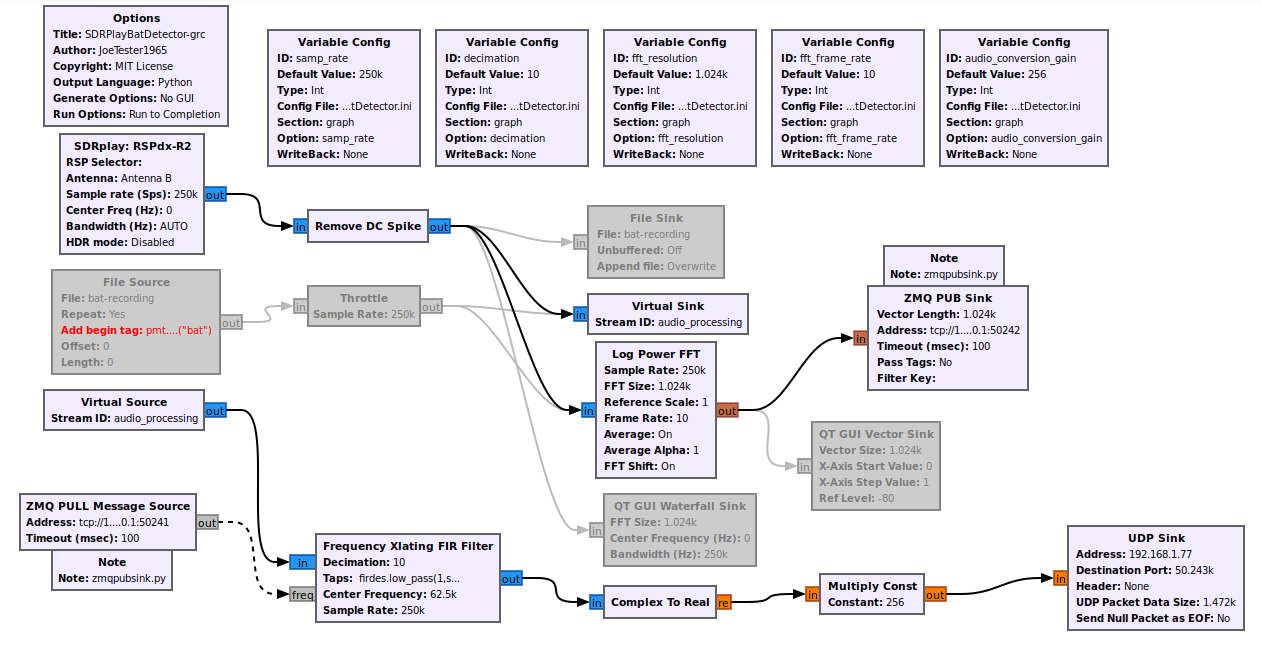
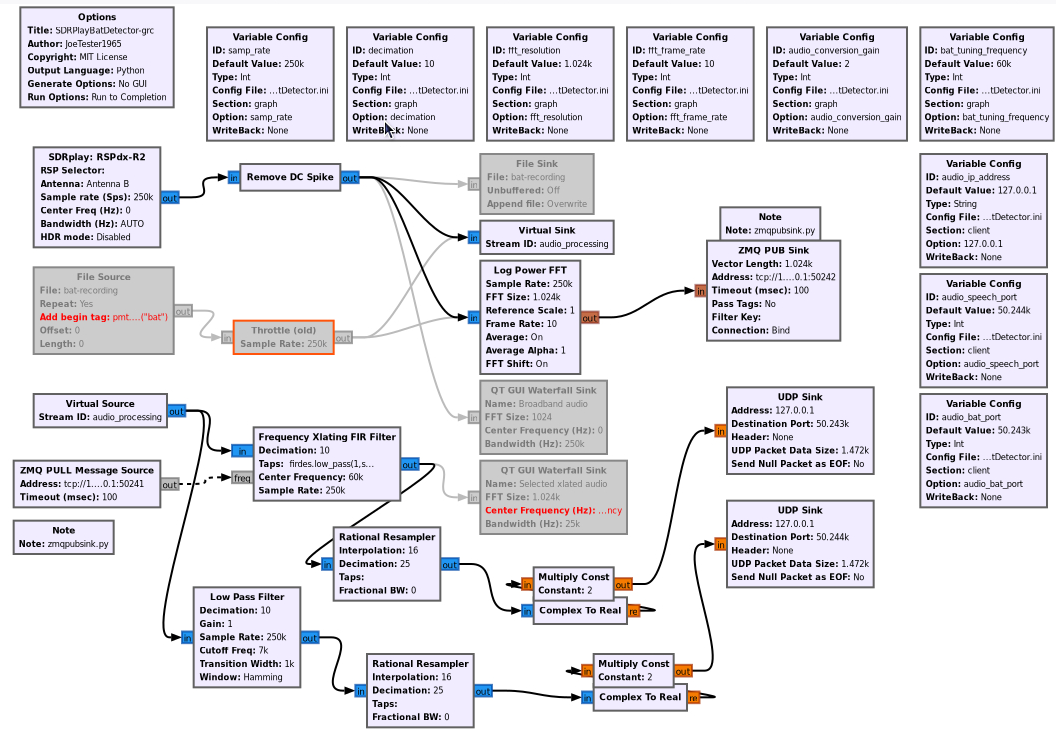
Added speech and bat audio streams

diff --git a/SDRPlayBatDetector.py b/SDRPlayBatDetector.py
@@ -39,7 +39,6 @@ class SDRPlayBatDetector(gr.top_block):
         ##################################################
         # Variables
         ##################################################
-        self.tuning_frequency = tuning_frequency = 0
         self._samp_rate_config = configparser.ConfigParser()
         self._samp_rate_config.read('./SDRPlayBatDetector.ini')
         try: samp_rate = self._samp_rate_config.getint('graph', 'samp_rate')
@@ -60,11 +59,31 @@ class SDRPlayBatDetector(gr.top_block):
         try: decimation = self._decimation_config.getint('graph', 'decimation')
         except: decimation = 10
         self.decimation = decimation
+        self._bat_tuning_frequency_config = configparser.ConfigParser()
+        self._bat_tuning_frequency_config.read('./SDRPlayBatDetector.ini')
+        try: bat_tuning_frequency = self._bat_tuning_frequency_config.getint('graph', 'bat_tuning_frequency')
+        except: bat_tuning_frequency = 60000
+        self.bat_tuning_frequency = bat_tuning_frequency
+        self._audio_speech_port_config = configparser.ConfigParser()
+        self._audio_speech_port_config.read('./SDRPlayBatDetector.ini')
+        try: audio_speech_port = self._audio_speech_port_config.getint('client', 'audio_speech_port')
+        except: audio_speech_port = 50244
+        self.audio_speech_port = audio_speech_port
+        self._audio_ip_address_config = configparser.ConfigParser()
+        self._audio_ip_address_config.read('./SDRPlayBatDetector.ini')
+        try: audio_ip_address = self._audio_ip_address_config.get('client', audio_ip_address)
+        except: audio_ip_address = '127.0.0.1'
+        self.audio_ip_address = audio_ip_address
         self._audio_conversion_gain_config = configparser.ConfigParser()
         self._audio_conversion_gain_config.read('./SDRPlayBatDetector.ini')
         try: audio_conversion_gain = self._audio_conversion_gain_config.getint('graph', 'audio_conversion_gain')
         except: audio_conversion_gain = 2
         self.audio_conversion_gain = audio_conversion_gain
+        self._audio_bat_port_config = configparser.ConfigParser()
+        self._audio_bat_port_config.read('./SDRPlayBatDetector.ini')
+        try: audio_bat_port = self._audio_bat_port_config.getint('client', 'audio_bat_port')
+        except: audio_bat_port = 50243
+        self.audio_bat_port = audio_bat_port
 
         ##################################################
         # Blocks
@@ -84,7 +103,7 @@ class SDRPlayBatDetector(gr.top_block):
         self.sdrplay3_rspdxr2_0.set_bandwidth(0)
         self.sdrplay3_rspdxr2_0.set_antenna('Antenna B')
         self.sdrplay3_rspdxr2_0.set_gain_mode(False)
-        self.sdrplay3_rspdxr2_0.set_gain(-(30), 'IF', False)
+        self.sdrplay3_rspdxr2_0.set_gain(-(36), 'IF', False)
         self.sdrplay3_rspdxr2_0.set_gain(0, 'LNAstate', False)
         self.sdrplay3_rspdxr2_0.set_freq_corr(0)
         self.sdrplay3_rspdxr2_0.set_dc_offset_mode(True)
@@ -98,7 +117,27 @@ class SDRPlayBatDetector(gr.top_block):
         self.sdrplay3_rspdxr2_0.set_debug_mode(False)
         self.sdrplay3_rspdxr2_0.set_sample_sequence_gaps_check(False)
         self.sdrplay3_rspdxr2_0.set_show_gain_changes(False)
-        self.network_udp_sink_0 = network.udp_sink(gr.sizeof_float, 1, '127.0.0.1', 50243, 0, 1472, False)
+        self.rational_resampler_xxx_0_0 = filter.rational_resampler_ccc(
+                interpolation=16,
+                decimation=25,
+                taps=[],
+                fractional_bw=0)
+        self.rational_resampler_xxx_0 = filter.rational_resampler_ccc(
+                interpolation=16,
+                decimation=25,
+                taps=[],
+                fractional_bw=0)
+        self.network_udp_sink_0_0 = network.udp_sink(gr.sizeof_float, 1, audio_ip_address, audio_speech_port, 0, 1472, False)
+        self.network_udp_sink_0 = network.udp_sink(gr.sizeof_float, 1, audio_ip_address, 50243, 0, 1472, False)
+        self.low_pass_filter_0 = filter.fir_filter_ccf(
+            10,
+            firdes.low_pass(
+                1,
+                samp_rate,
+                7000,
+                1000,
+                window.WIN_HAMMING,
+                6.76))
         self.logpwrfft_x_0 = logpwrfft.logpwrfft_c(
             sample_rate=samp_rate,
             fft_size=fft_resolution,
@@ -108,9 +147,11 @@ class SDRPlayBatDetector(gr.top_block):
             average=True,
             shift=True)
         self.logpwrfft_x_0.set_block_alias("audio")
-        self.freq_xlating_fir_filter_xxx_0 = filter.freq_xlating_fir_filter_ccc(decimation,  firdes.low_pass(1,samp_rate,samp_rate/decimation/3,100), tuning_frequency, samp_rate)
+        self.freq_xlating_fir_filter_xxx_0 = filter.freq_xlating_fir_filter_ccc(decimation,  firdes.low_pass(1,samp_rate,samp_rate/decimation/3,100), bat_tuning_frequency, samp_rate)
+        self.blocks_multiply_const_vxx_0_0 = blocks.multiply_const_ff(audio_conversion_gain)
         self.blocks_multiply_const_vxx_0 = blocks.multiply_const_ff(audio_conversion_gain)
         self.blocks_correctiq_0 = blocks.correctiq()
+        self.blocks_complex_to_real_0_0 = blocks.complex_to_real(1)
         self.blocks_complex_to_real_0 = blocks.complex_to_real(1)
 
 
@@ -119,20 +160,19 @@ class SDRPlayBatDetector(gr.top_block):
         ##################################################
         self.msg_connect((self.zeromq_pull_msg_source_0, 'out'), (self.freq_xlating_fir_filter_xxx_0, 'freq'))
         self.connect((self.blocks_complex_to_real_0, 0), (self.blocks_multiply_const_vxx_0, 0))
+        self.connect((self.blocks_complex_to_real_0_0, 0), (self.blocks_multiply_const_vxx_0_0, 0))
         self.connect((self.blocks_correctiq_0, 0), (self.freq_xlating_fir_filter_xxx_0, 0))
         self.connect((self.blocks_correctiq_0, 0), (self.logpwrfft_x_0, 0))
+        self.connect((self.blocks_correctiq_0, 0), (self.low_pass_filter_0, 0))
         self.connect((self.blocks_multiply_const_vxx_0, 0), (self.network_udp_sink_0, 0))
-        self.connect((self.freq_xlating_fir_filter_xxx_0, 0), (self.blocks_complex_to_real_0, 0))
+        self.connect((self.blocks_multiply_const_vxx_0_0, 0), (self.network_udp_sink_0_0, 0))
+        self.connect((self.freq_xlating_fir_filter_xxx_0, 0), (self.rational_resampler_xxx_0_0, 0))
         self.connect((self.logpwrfft_x_0, 0), (self.zeromq_pub_sink_0, 0))
+        self.connect((self.low_pass_filter_0, 0), (self.rational_resampler_xxx_0, 0))
+        self.connect((self.rational_resampler_xxx_0, 0), (self.blocks_complex_to_real_0_0, 0))
+        self.connect((self.rational_resampler_xxx_0_0, 0), (self.blocks_complex_to_real_0, 0))
         self.connect((self.sdrplay3_rspdxr2_0, 0), (self.blocks_correctiq_0, 0))
 
-
-    def get_tuning_frequency(self):
-        return self.tuning_frequency
-
-    def set_tuning_frequency(self, tuning_frequency):
-        self.tuning_frequency = tuning_frequency
-        self.freq_xlating_fir_filter_xxx_0.set_center_freq(self.tuning_frequency)
 
     def get_samp_rate(self):
         return self.samp_rate
@@ -141,6 +181,7 @@ class SDRPlayBatDetector(gr.top_block):
         self.samp_rate = samp_rate
         self.freq_xlating_fir_filter_xxx_0.set_taps( firdes.low_pass(1,self.samp_rate,self.samp_rate/self.decimation/3,100))
         self.logpwrfft_x_0.set_sample_rate(self.samp_rate)
+        self.low_pass_filter_0.set_taps(firdes.low_pass(1, self.samp_rate, 7000, 1000, window.WIN_HAMMING, 6.76))
         self.sdrplay3_rspdxr2_0.set_sample_rate(self.samp_rate, False)
 
     def get_fft_resolution(self):
@@ -162,12 +203,44 @@ class SDRPlayBatDetector(gr.top_block):
         self.decimation = decimation
         self.freq_xlating_fir_filter_xxx_0.set_taps( firdes.low_pass(1,self.samp_rate,self.samp_rate/self.decimation/3,100))
 
+    def get_bat_tuning_frequency(self):
+        return self.bat_tuning_frequency
+
+    def set_bat_tuning_frequency(self, bat_tuning_frequency):
+        self.bat_tuning_frequency = bat_tuning_frequency
+        self.freq_xlating_fir_filter_xxx_0.set_center_freq(self.bat_tuning_frequency)
+
+    def get_audio_speech_port(self):
+        return self.audio_speech_port
+
+    def set_audio_speech_port(self, audio_speech_port):
+        self.audio_speech_port = audio_speech_port
+
+    def get_audio_ip_address(self):
+        return self.audio_ip_address
+
+    def set_audio_ip_address(self, audio_ip_address):
+        self.audio_ip_address = audio_ip_address
+        self._audio_ip_address_config = configparser.ConfigParser()
+        self._audio_ip_address_config.read('./SDRPlayBatDetector.ini')
+        if not self._audio_ip_address_config.has_section('client'):
+        	self._audio_ip_address_config.add_section('client')
+        self._audio_ip_address_config.set('client', self.audio_ip_address, str(None))
+        self._audio_ip_address_config.write(open('./SDRPlayBatDetector.ini', 'w'))
+
     def get_audio_conversion_gain(self):
         return self.audio_conversion_gain
 
     def set_audio_conversion_gain(self, audio_conversion_gain):
         self.audio_conversion_gain = audio_conversion_gain
         self.blocks_multiply_const_vxx_0.set_k(self.audio_conversion_gain)
+        self.blocks_multiply_const_vxx_0_0.set_k(self.audio_conversion_gain)
+
+    def get_audio_bat_port(self):
+        return self.audio_bat_port
+
+    def set_audio_bat_port(self, audio_bat_port):
+        self.audio_bat_port = audio_bat_port
 
 
 

diff --git a/zmqpubsink.py b/zmqpubsink.py
@@ -123,8 +123,7 @@ while True:
         if bin_count >= bin_count_threshold:
             if  (time.time() - last_trigger_time[index]) > retrigger_seconds:
                 last_trigger_time[index] = time.time()
-                zmq_push_message_sink.send(pmt.serialize_str((pmt.cons(pmt.intern("tuning_frequency"), pmt.to_pmt(float(tuning_frequency))))))
-                now = datetime.datetime.now()
+                 now = datetime.datetime.now()
                 csv_entry="%s,%s,%0.0f,%d,%0.0f,%d,%d\n" % (now.strftime("%Y-%m-%d %H:%M:%S"),time.time(),
                                                             start_event_frequency, start_event_power, end_event_frequency, end_event_power, bin_count)
                 csv_file.write(csv_entry)

diff --git a/README.md b/README.md
@@ -45,12 +45,16 @@ Edit the [config file](SDRPlayBatDetector.ini) to adjust the following
 | fft_resolution | Ditto. |
 | fft_frame_rate  | Ditto. |
 | audio_conversion_gain  | Ditto. |
+| bat_tuning_frequency | Where to losten for bat sounds
 | start_freq  | Where to start looking for bats. |
 | end_freq  | If you need to increase this, you will need to increase the sample rate and then maybe tweak the decimation and interpolation values on the graph. |
 | freq_bin_range  | The fft is re-aggregrated based on this size to allow for more detailed but not over the top event generation. |
 | trigger_gain_threshold  | Spike in received power required to generate an event. |
 | trigger_abs_threshold  | So not use event if power is less than this |
 | retrigger_seconds | Do not generate more than one event in this 'comparison against rolling average' interval. |
+| audio_ip_address | IP address to send audio streams |
+| audio_speech_port | Port to send speech audio stream|
+| audio_bat_port | Port to send bat audio stream |
 | bin_count_threshold | Must see activity over this number of bins to be a valid event |
 | mqtt_ip_address  | Optional messaging server. |
 | mqtt_username  | Ditto. |
@@ -91,7 +95,7 @@ Edit the gnuradio sketch source block if you have a different source than the rs
 For remote audio place you remote IP and port in the [UDP sink](./sketch.png) block and run this at the remote end:
 
 ```console
-ffplay -f f32le -ar 25000 -fflags nobuffer -nodisp -i udp://127.0.0.1:50243 -af "volume=2.0"
+ffplay -f f32le -ar 16000 -fflags nobuffer -nodisp -i udp://127.0.0.1:50243
 ```
 Note that in the line above, 25000 comes from sample_rate/decimation in the ini file.
 
